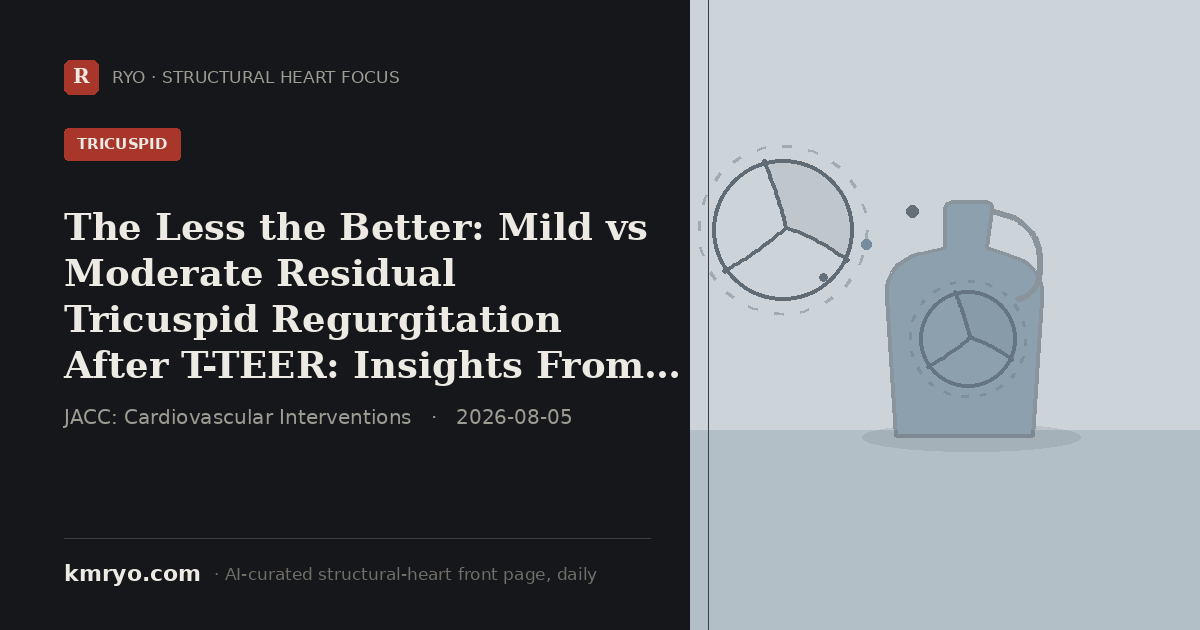
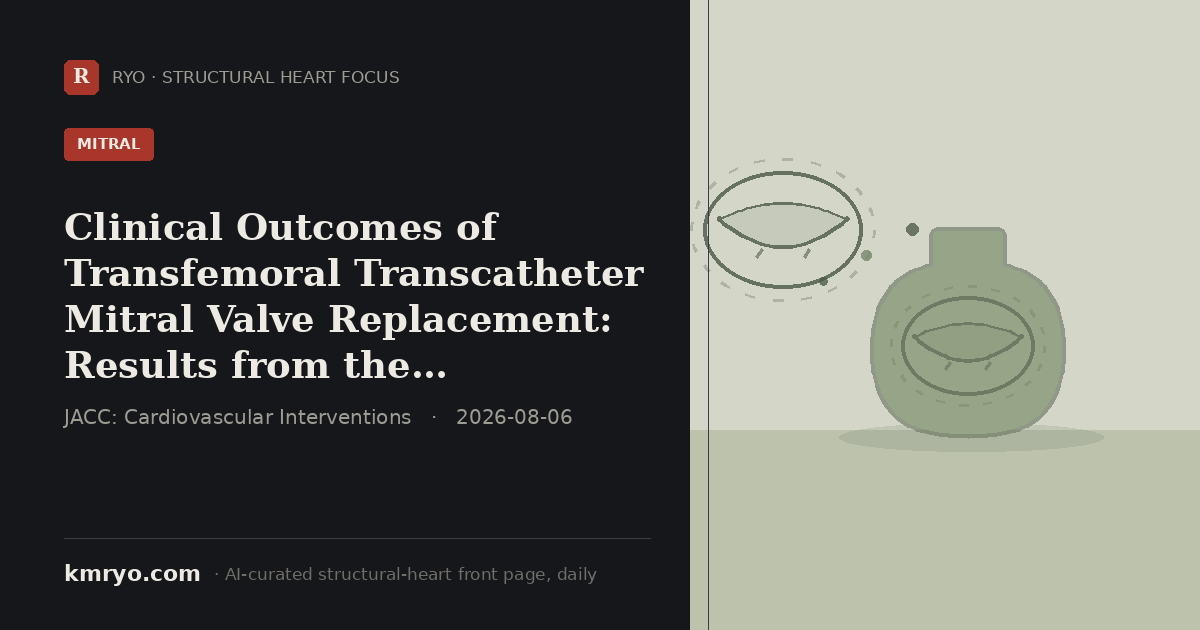
pulse: 2026-08-06 daily update

diff --git a/index.html b/index.html
@@ -6,8 +6,8 @@
 <title>Structural Heart Focus — Daily | Dr. Mi Chen · 千觅量子 RYO</title>
 <meta name="description" content="Structural Heart Focus — the day's most important structural-heart reading (top journals, major meetings and the field's conversation), curated daily by an AI agent from inside the Zurich hybrid room. By Dr. Mi Chen · 千觅量子 RYO.">
 <!-- Social share card. Regenerated daily by the pulse agent (pulse/make_share_card.py); og:title/description updated to the day's top story so LinkedIn/WeChat/X show today's headline, not a static portrait. -->
-<meta property="og:title" content="The Less the Better: Mild vs Moderate Residual Tricuspid Regurgitation After T-TEER: Insights From EuroTR">
-<meta property="og:description" content="The 2,545-patient EuroTR registry finds that even a step-up from trace to mild residual tricuspid regurgitation after T-TEER lowers 2-year survival, arguing for a stricter procedural target. AI-curated daily by Dr. Mi Chen · 千觅量子 RYO.">
+<meta property="og:title" content="Clinical Outcomes of Transfemoral Transcatheter Mitral Valve Replacement: Results from the CHOICE-MI Registry">
+<meta property="og:description" content="The 124-patient CHOICE-MI registry finds 91.1% technical success for transfemoral TMVR with 9 dedicated devices, but the composite of death or heart failure hospitalization reaches 53% at 2 years. AI-curated daily by Dr. Mi Chen · 千觅量子 RYO.">
 <meta property="og:image" content="https://www.kmryo.com/pulse/img/share/card.png">
 <meta property="og:image:width" content="1200">
 <meta property="og:image:height" content="630">
@@ -16,8 +16,8 @@
 <meta property="og:type" content="website">
 <meta property="og:site_name" content="kmryo.com · Structural Heart Focus">
 <meta name="twitter:card" content="summary_large_image">
-<meta name="twitter:title" content="The Less the Better: Mild vs Moderate Residual Tricuspid Regurgitation After T-TEER: Insights From EuroTR">
-<meta name="twitter:description" content="The 2,545-patient EuroTR registry finds that even a step-up from trace to mild residual tricuspid regurgitation after T-TEER lowers 2-year survival, arguing for a stricter procedural target.">
+<meta name="twitter:title" content="Clinical Outcomes of Transfemoral Transcatheter Mitral Valve Replacement: Results from the CHOICE-MI Registry">
+<meta name="twitter:description" content="The 124-patient CHOICE-MI registry finds 91.1% technical success for transfemoral TMVR with 9 dedicated devices, but the composite of death or heart failure hospitalization reaches 53% at 2 years.">
 <meta name="twitter:image" content="https://www.kmryo.com/pulse/img/share/card.png">
[1 lines of base64/hex data omitted]
 <link rel="preconnect" href="https://fonts.googleapis.com">
